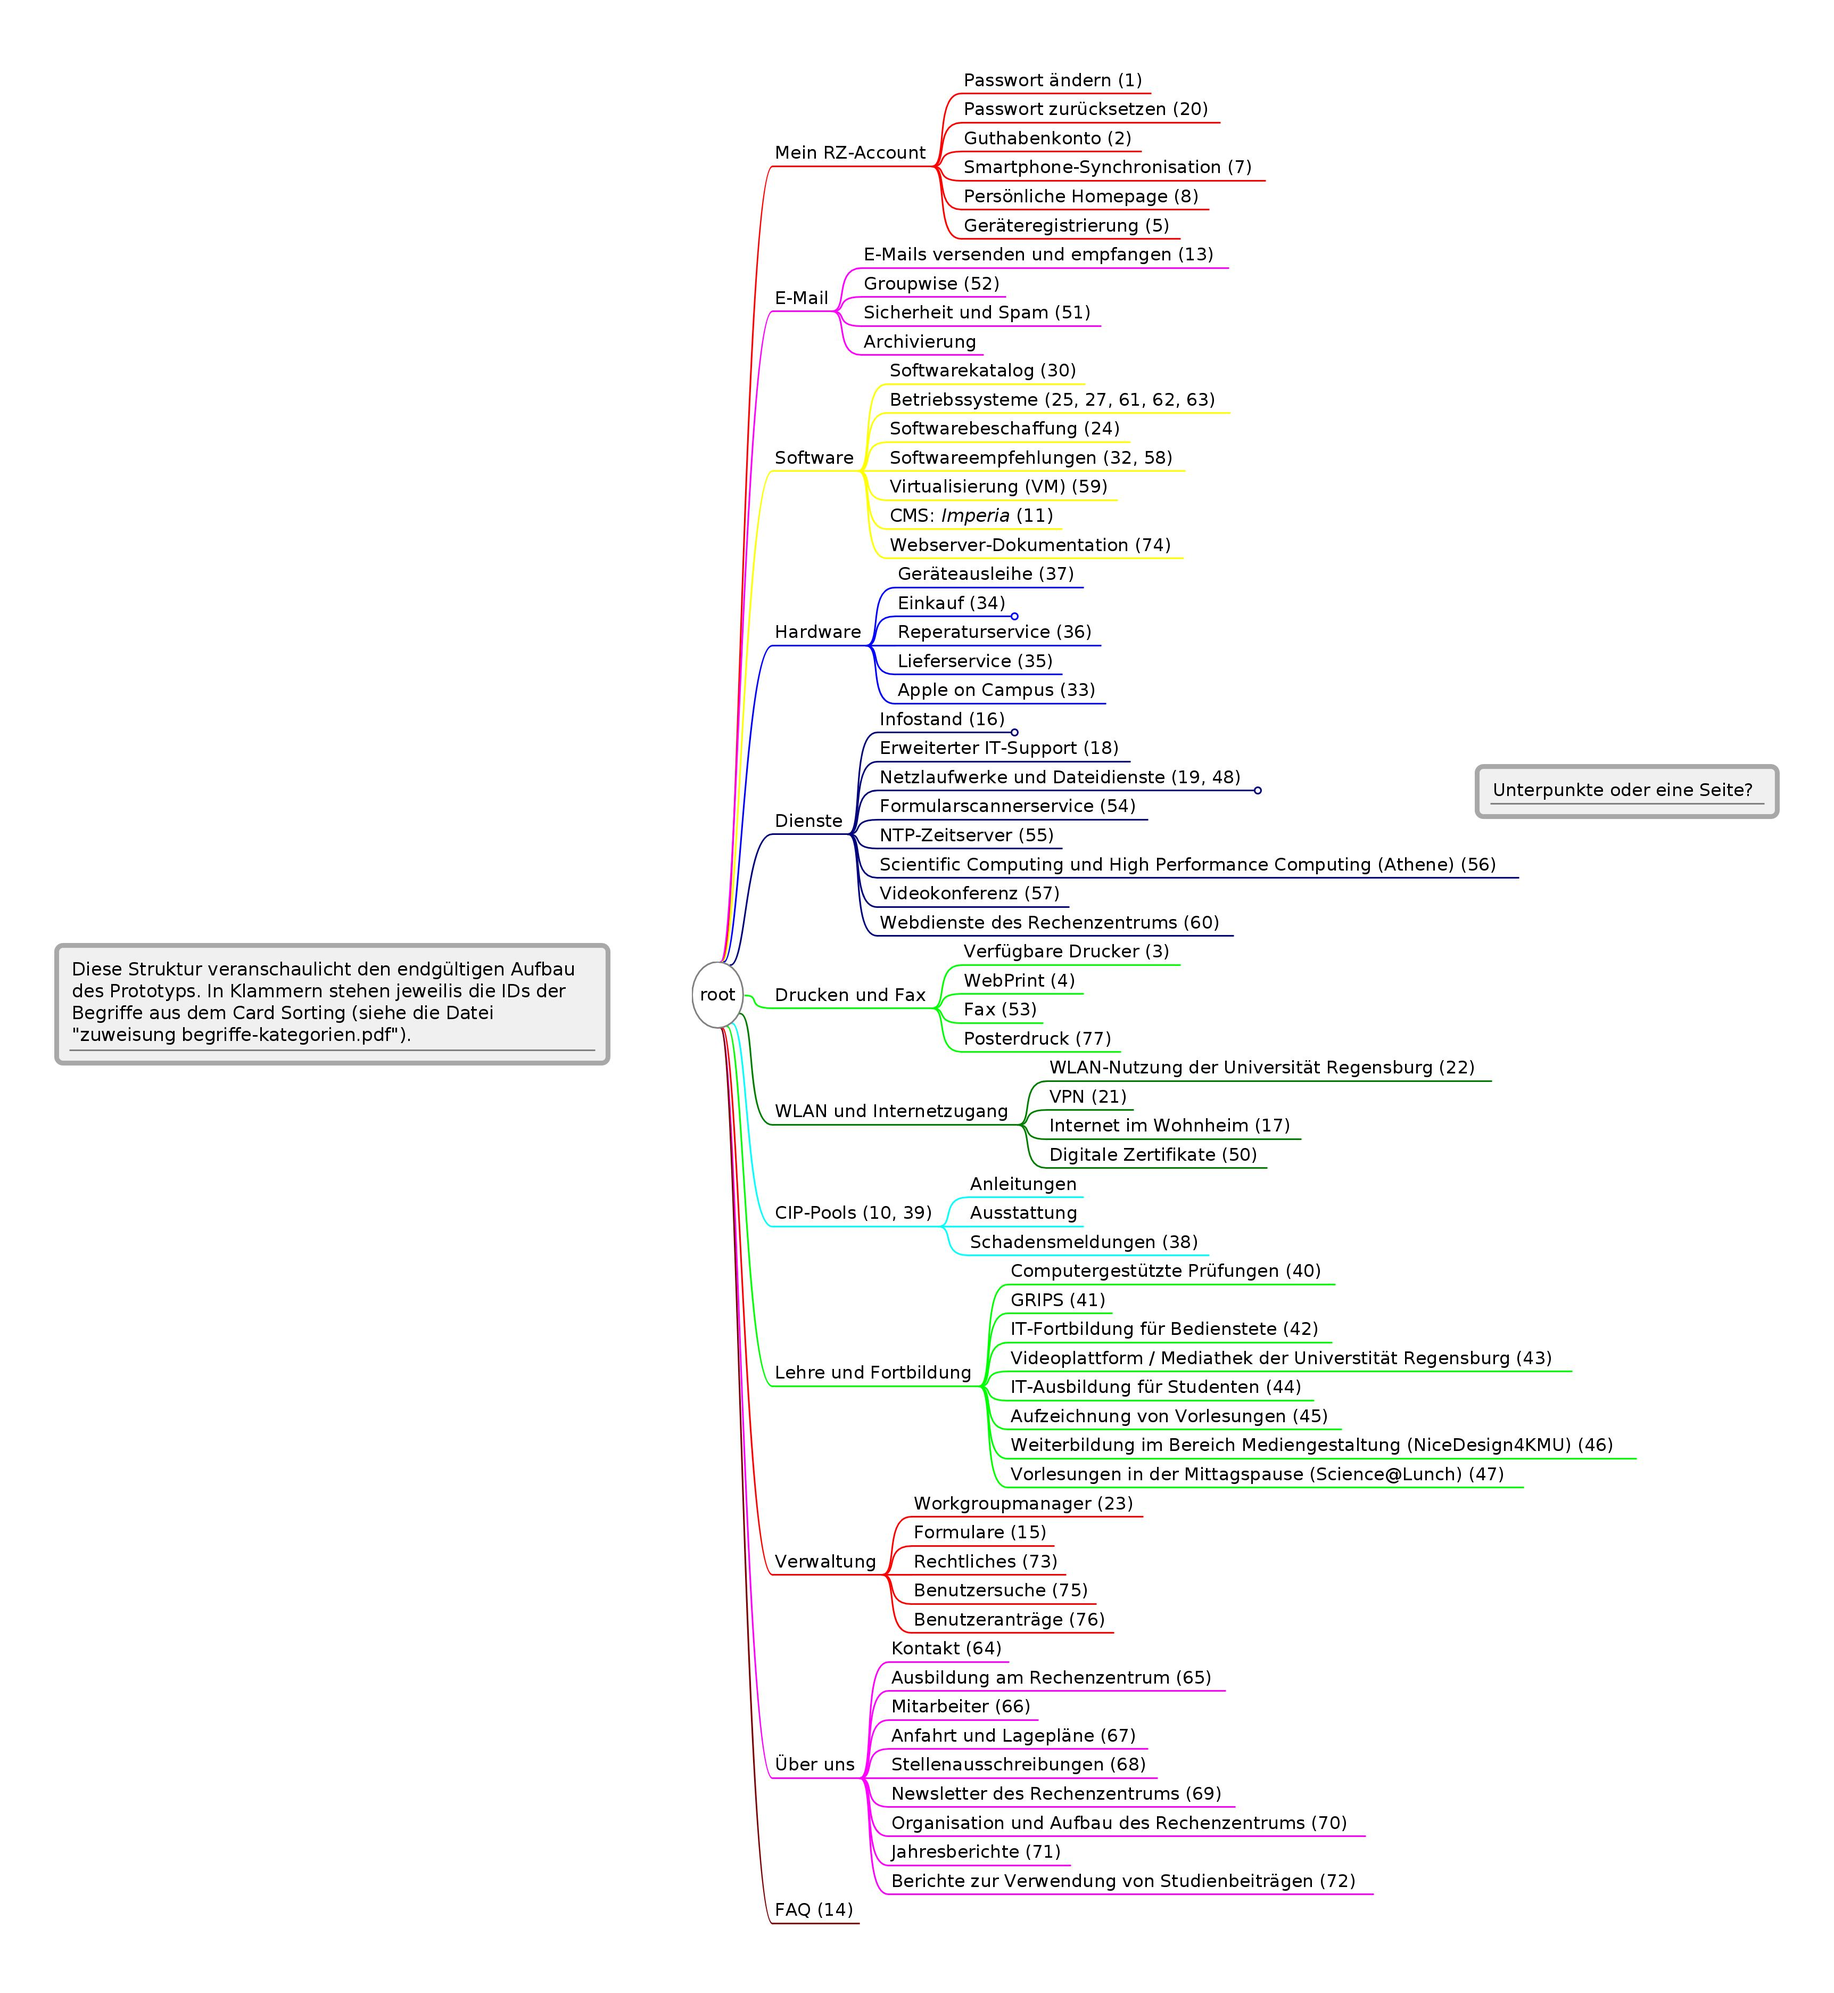
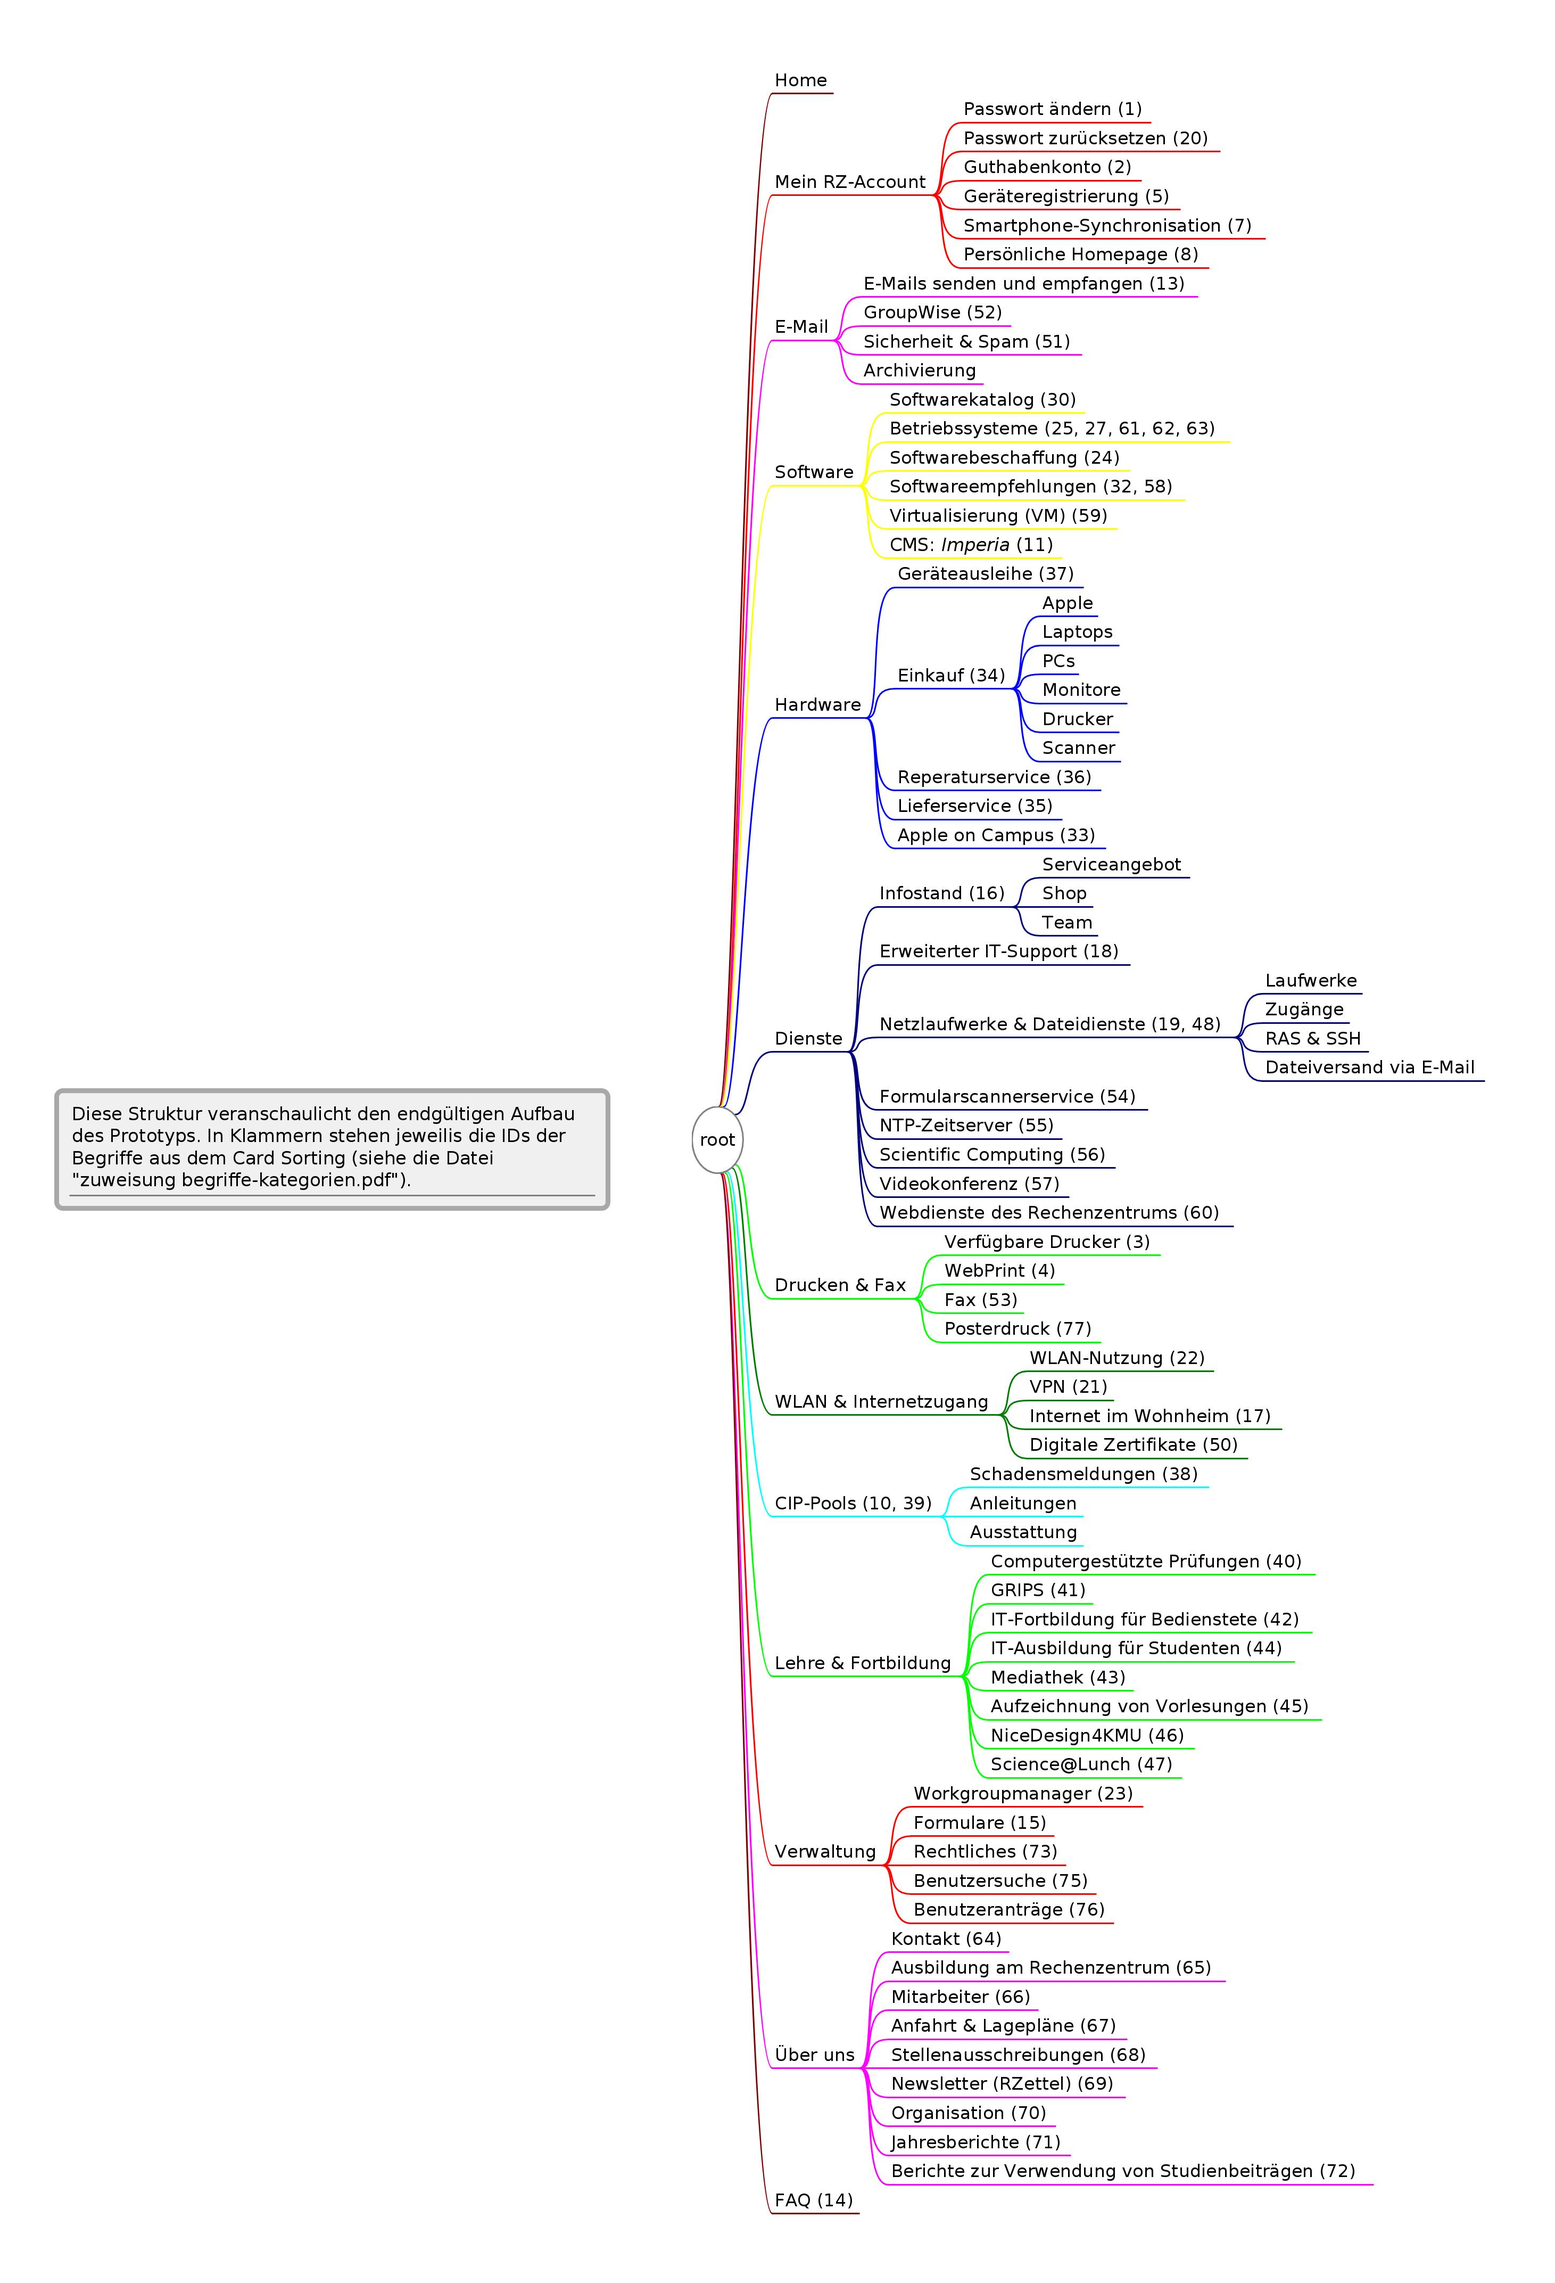
updated structure to current status

Changed region(s): [[0.0311, 0.031, 0.9654, 0.9607], [0.4049, 0.155, 0.436, 0.1859]]

diff --git a/Prototyp/neue struktur.mm b/Prototyp/neue struktur.mm
@@ -50,21 +50,24 @@
 </stylenode>
 </map_styles>
 </hook>
-<hook NAME="AutomaticEdgeColor" COUNTER="5"/>
+<hook NAME="AutomaticEdgeColor" COUNTER="7"/>
+<node TEXT="Home" POSITION="right" ID="ID_762296054" CREATED="1442745275510" MODIFIED="1442745277907">
+<edge COLOR="#7c0000"/>
+</node>
 <node TEXT="Mein RZ-Account" POSITION="right" ID="ID_669248540" CREATED="1441869848084" MODIFIED="1441869857971">
 <edge COLOR="#ff0000"/>
 <node TEXT="Passwort &#xe4;ndern (1)" ID="ID_751792019" CREATED="1441869971630" MODIFIED="1441885954469"/>
 <node TEXT="Passwort zur&#xfc;cksetzen (20)" ID="ID_576465163" CREATED="1441870019242" MODIFIED="1441885949033"/>
 <node TEXT="Guthabenkonto (2)" ID="ID_1940107942" CREATED="1441869983337" MODIFIED="1441885963930"/>
+<node TEXT="Ger&#xe4;teregistrierung (5)" ID="ID_1020460487" CREATED="1442299506462" MODIFIED="1442299524832"/>
 <node TEXT="Smartphone-Synchronisation (7)" ID="ID_1041095115" CREATED="1441869988999" MODIFIED="1441885996758"/>
 <node TEXT="Pers&#xf6;nliche Homepage (8)" ID="ID_468570011" CREATED="1441870000966" MODIFIED="1441884607649"/>
-<node TEXT="Ger&#xe4;teregistrierung (5)" ID="ID_1020460487" CREATED="1442299506462" MODIFIED="1442299524832"/>
 </node>
 <node TEXT="E-Mail" POSITION="right" ID="ID_1765525429" CREATED="1441869925215" MODIFIED="1441885850334">
 <edge COLOR="#ff00ff"/>
-<node TEXT="E-Mails versenden und empfangen (13)" ID="ID_153571769" CREATED="1441870161782" MODIFIED="1441887305845"/>
-<node TEXT="Groupwise (52)" ID="ID_163120556" CREATED="1441874900557" MODIFIED="1441884678263"/>
-<node TEXT="Sicherheit und Spam (51)" ID="ID_1440047222" CREATED="1441874898670" MODIFIED="1441886708276"/>
+<node TEXT="E-Mails senden und empfangen (13)" ID="ID_153571769" CREATED="1441870161782" MODIFIED="1442745320210"/>
+<node TEXT="GroupWise (52)" ID="ID_163120556" CREATED="1441874900557" MODIFIED="1442745327066"/>
+<node TEXT="Sicherheit &amp; Spam (51)" ID="ID_1440047222" CREATED="1441874898670" MODIFIED="1442745335856"/>
 <node TEXT="Archivierung" ID="ID_1543295457" CREATED="1441887128537" MODIFIED="1441887131981"/>
 </node>
 <node TEXT="Software" POSITION="right" ID="ID_1890092100" CREATED="1441869931909" MODIFIED="1441869934117">
@@ -88,7 +91,6 @@
 </html>
 </richcontent>
 </node>
-<node TEXT="Webserver-Dokumentation (74)" ID="ID_466391093" CREATED="1441888013301" MODIFIED="1441888043240"/>
 </node>
 <node TEXT="Hardware" POSITION="right" ID="ID_189916393" CREATED="1441871853709" MODIFIED="1441871859718">
 <edge COLOR="#0000ff"/>
@@ -105,18 +107,15 @@
 <node TEXT="Lieferservice (35)" ID="ID_409237758" CREATED="1441872049124" MODIFIED="1441892487459"/>
 <node TEXT="Apple on Campus (33)" ID="ID_1914333919" CREATED="1441871982940" MODIFIED="1441892590915"/>
 </node>
-<node TEXT="Unterpunkte oder eine Seite?" LOCALIZED_STYLE_REF="defaultstyle.floating" POSITION="right" ID="ID_1117749616" CREATED="1442301167998" MODIFIED="1442301293446" HGAP="600" VSHIFT="-138">
-<hook NAME="FreeNode"/>
-</node>
 <node TEXT="Dienste" POSITION="right" ID="ID_72266525" CREATED="1441869938096" MODIFIED="1441869939341">
 <edge COLOR="#00007c"/>
 <node TEXT="Infostand (16)" ID="ID_1779496599" CREATED="1441870175017" MODIFIED="1441884876458">
 <node TEXT="Serviceangebot" ID="ID_1711660378" CREATED="1441893206635" MODIFIED="1442301137952"/>
-<node TEXT="Shop (ohne Apple on Campus und Software)" ID="ID_839351712" CREATED="1441893211521" MODIFIED="1442301137953"/>
+<node TEXT="Shop" ID="ID_839351712" CREATED="1441893211521" MODIFIED="1442745447603"/>
 <node TEXT="Team" ID="ID_339770900" CREATED="1441893223395" MODIFIED="1442301137956"/>
 </node>
 <node TEXT="Erweiterter IT-Support (18)" ID="ID_916056347" CREATED="1441870205073" MODIFIED="1441884881137"/>
-<node TEXT="Netzlaufwerke und Dateidienste (19, 48)" ID="ID_474802615" CREATED="1441870219416" MODIFIED="1441893358843">
+<node TEXT="Netzlaufwerke &amp; Dateidienste (19, 48)" ID="ID_474802615" CREATED="1441870219416" MODIFIED="1442745981466">
 <node TEXT="Laufwerke" ID="ID_1515953802" CREATED="1441893453691" MODIFIED="1441893455743"/>
 <node TEXT="Zug&#xe4;nge" ID="ID_595397903" CREATED="1441893457628" MODIFIED="1441893461188"/>
 <node TEXT="RAS &amp; SSH" ID="ID_371675725" CREATED="1441893461815" MODIFIED="1441893471028"/>
@@ -124,43 +123,43 @@
 </node>
 <node TEXT="Formularscannerservice (54)" ID="ID_1272693274" CREATED="1441875420042" MODIFIED="1441884924340"/>
 <node TEXT="NTP-Zeitserver (55)" ID="ID_1943471488" CREATED="1441875644041" MODIFIED="1441884929630"/>
-<node TEXT="Scientific Computing und High Performance Computing (Athene) (56)" ID="ID_1866334653" CREATED="1441875830194" MODIFIED="1441884933916"/>
+<node TEXT="Scientific Computing (56)" ID="ID_1866334653" CREATED="1441875830194" MODIFIED="1442745497817"/>
 <node TEXT="Videokonferenz (57)" ID="ID_590203619" CREATED="1441875864118" MODIFIED="1441884939140"/>
 <node TEXT="Webdienste des Rechenzentrums (60)" ID="ID_1806943678" CREATED="1441876079081" MODIFIED="1441884944455"/>
 </node>
 <node TEXT="Diese Struktur veranschaulicht den endg&#xfc;ltigen Aufbau&#xa;des Prototyps. In Klammern stehen jeweilis die IDs der&#xa;Begriffe aus dem Card Sorting (siehe die Datei&#xa;&quot;zuweisung begriffe-kategorien.pdf&quot;)." LOCALIZED_STYLE_REF="defaultstyle.floating" POSITION="right" ID="ID_1565481079" CREATED="1441886785215" MODIFIED="1441886948155" HGAP="-468" VSHIFT="-3">
 <hook NAME="FreeNode"/>
 </node>
-<node TEXT="Drucken und Fax" POSITION="right" ID="ID_1629054648" CREATED="1441869921196" MODIFIED="1441885855182">
+<node TEXT="Drucken &amp; Fax" POSITION="right" ID="ID_1629054648" CREATED="1441869921196" MODIFIED="1442745572514">
 <edge COLOR="#00ff00"/>
 <node TEXT="Verf&#xfc;gbare Drucker (3)" ID="ID_1857720403" CREATED="1441870042651" MODIFIED="1441884619471"/>
 <node TEXT="WebPrint (4)" ID="ID_1778042055" CREATED="1441870054716" MODIFIED="1441884623407"/>
 <node TEXT="Fax (53)" ID="ID_394215921" CREATED="1441875434587" MODIFIED="1441884636228"/>
 <node TEXT="Posterdruck (77)" ID="ID_1818670864" CREATED="1441878037201" MODIFIED="1441884640684"/>
 </node>
-<node TEXT="WLAN und Internetzugang" POSITION="right" ID="ID_770433897" CREATED="1441869940664" MODIFIED="1441869946521">
+<node TEXT="WLAN &amp; Internetzugang" POSITION="right" ID="ID_770433897" CREATED="1441869940664" MODIFIED="1442745576272">
 <edge COLOR="#007c00"/>
-<node TEXT="WLAN-Nutzung der Universit&#xe4;t Regensburg (22)" ID="ID_1245377829" CREATED="1441870260757" MODIFIED="1441884973221"/>
+<node TEXT="WLAN-Nutzung (22)" ID="ID_1245377829" CREATED="1441870260757" MODIFIED="1442745953172"/>
 <node TEXT="VPN (21)" ID="ID_943488088" CREATED="1441870234732" MODIFIED="1441884912826"/>
 <node TEXT="Internet im Wohnheim (17)" ID="ID_1379046742" CREATED="1441870192615" MODIFIED="1441884968013"/>
 <node TEXT="Digitale Zertifikate (50)" ID="ID_1288853056" CREATED="1441874816992" MODIFIED="1441884994689"/>
 </node>
 <node TEXT="CIP-Pools (10, 39)" POSITION="right" ID="ID_1144884299" CREATED="1441869929468" MODIFIED="1442303388069">
 <edge COLOR="#00ffff"/>
+<node TEXT="Schadensmeldungen (38)" ID="ID_1359084573" CREATED="1441872090408" MODIFIED="1442303426100"/>
 <node TEXT="Anleitungen" ID="ID_172390256" CREATED="1442303396920" MODIFIED="1442303399923"/>
 <node TEXT="Ausstattung" ID="ID_1205824592" CREATED="1442303400374" MODIFIED="1442303405101"/>
-<node TEXT="Schadensmeldungen (38)" ID="ID_1359084573" CREATED="1441872090408" MODIFIED="1442303426100"/>
 </node>
-<node TEXT="Lehre und Fortbildung" POSITION="right" ID="ID_1085113772" CREATED="1441872426119" MODIFIED="1441873601411">
+<node TEXT="Lehre &amp; Fortbildung" POSITION="right" ID="ID_1085113772" CREATED="1441872426119" MODIFIED="1442745640448">
 <edge COLOR="#00ff00"/>
 <node TEXT="Computergest&#xfc;tzte Pr&#xfc;fungen (40)" ID="ID_1694458829" CREATED="1441872432662" MODIFIED="1441885084830"/>
 <node TEXT="GRIPS (41)" ID="ID_1590563630" CREATED="1441872443409" MODIFIED="1441885095893"/>
 <node TEXT="IT-Fortbildung f&#xfc;r Bedienstete (42)" ID="ID_165407253" CREATED="1441873778590" MODIFIED="1441885101802"/>
-<node TEXT="Videoplattform / Mediathek der Universtit&#xe4;t Regensburg (43)" ID="ID_1888791027" CREATED="1441873972219" MODIFIED="1441885112439"/>
 <node TEXT="IT-Ausbildung f&#xfc;r Studenten (44)" ID="ID_1285757763" CREATED="1441874046473" MODIFIED="1441885123208"/>
+<node TEXT="Mediathek (43)" ID="ID_1888791027" CREATED="1441873972219" MODIFIED="1442745662944"/>
 <node TEXT="Aufzeichnung von Vorlesungen (45)" ID="ID_902096288" CREATED="1441874063843" MODIFIED="1441885132671"/>
-<node TEXT="Weiterbildung im Bereich Mediengestaltung (NiceDesign4KMU) (46)" ID="ID_1067593615" CREATED="1441874081277" MODIFIED="1441885139959"/>
-<node TEXT="Vorlesungen in der Mittagspause (Science@Lunch) (47)" ID="ID_741542397" CREATED="1441874086508" MODIFIED="1441885151006"/>
+<node TEXT="NiceDesign4KMU (46)" ID="ID_1067593615" CREATED="1441874081277" MODIFIED="1442745686089"/>
+<node TEXT="Science@Lunch (47)" ID="ID_741542397" CREATED="1441874086508" MODIFIED="1442745678195"/>
 </node>
 <node TEXT="Verwaltung" POSITION="right" ID="ID_542155170" CREATED="1441870395125" MODIFIED="1441877221942">
 <edge COLOR="#ff0000"/>
@@ -175,10 +174,10 @@
 <node TEXT="Kontakt (64)" ID="ID_1809245446" CREATED="1441876842786" MODIFIED="1441885158158"/>
 <node TEXT="Ausbildung am Rechenzentrum (65)" ID="ID_1168850955" CREATED="1441876880743" MODIFIED="1441885168549"/>
 <node TEXT="Mitarbeiter (66)" ID="ID_1198750952" CREATED="1441876892893" MODIFIED="1441885172360"/>
-<node TEXT="Anfahrt und Lagepl&#xe4;ne (67)" ID="ID_220303747" CREATED="1441876912085" MODIFIED="1441885177903"/>
+<node TEXT="Anfahrt &amp; Lagepl&#xe4;ne (67)" ID="ID_220303747" CREATED="1441876912085" MODIFIED="1442745988019"/>
 <node TEXT="Stellenausschreibungen (68)" ID="ID_852268081" CREATED="1441877054692" MODIFIED="1441885183485"/>
-<node TEXT="Newsletter des Rechenzentrums (69)" ID="ID_1197745464" CREATED="1441877059224" MODIFIED="1441885189004"/>
-<node TEXT="Organisation und Aufbau des Rechenzentrums (70)" ID="ID_298571698" CREATED="1441877071399" MODIFIED="1441885195192"/>
+<node TEXT="Newsletter (RZettel) (69)" ID="ID_1197745464" CREATED="1441877059224" MODIFIED="1442745819132"/>
+<node TEXT="Organisation (70)" ID="ID_298571698" CREATED="1441877071399" MODIFIED="1442746741389"/>
 <node TEXT="Jahresberichte (71)" ID="ID_663718639" CREATED="1441877118363" MODIFIED="1441885207798"/>
 <node TEXT="Berichte zur Verwendung von Studienbeitr&#xe4;gen (72)" ID="ID_14775159" CREATED="1441877124304" MODIFIED="1441885212878"/>
 </node>
